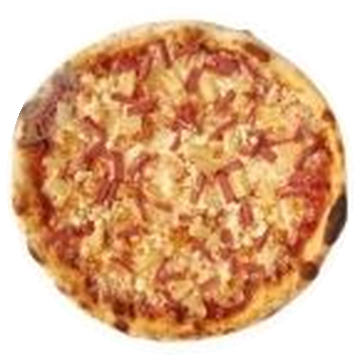
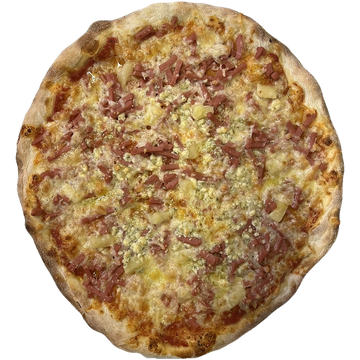
Uusi Americanon kuva (torstain päivän pizza), tausta poistettu
Claude-Session: https://claude.ai/code/session_019QJ8uAZrjsHY5GBSvSU4sp

diff --git a/index.html b/index.html
@@ -1,9 +1,9 @@
 <!DOCTYPE html>
-<html lang="fi"><head><meta charset="utf-8"><meta name="build" content="1793803376"><meta name="viewport" content="width=device-width, initial-scale=1, viewport-fit=cover">
+<html lang="fi"><head><meta charset="utf-8"><meta name="build" content="1793864624"><meta name="viewport" content="width=device-width, initial-scale=1, viewport-fit=cover">
 <title>Malakai Ravintola Lempäälä | Pizzabuffet, kebab, burgerit ja siivet</title><meta name="description" content="Malakai Ravintola, Tampereentie 414 Lempäälä. Pizzabuffet 13,70 € / 14,90 €, päivän pizza 9,90 €, kebabit, burgerit, Sticky Fingers ja Hot Wings. Varaa pöytä: 045 353 7000.">
 <meta property="og:title" content="Malakai Ravintola Lempäälä | Pizzabuffet, kebab, burgerit ja siivet"><meta property="og:description" content="Malakai Ravintola, Tampereentie 414 Lempäälä. Pizzabuffet 13,70 € / 14,90 €, päivän pizza 9,90 €, kebabit, burgerit, Sticky Fingers ja Hot Wings. Varaa pöytä: 045 353 7000."><meta property="og:image" content="media/kuvat/hero-levea.jpg?hq=1"><meta property="og:locale" content="fi_FI">
 <link href="https://fonts.googleapis.com/css2?family=Anton&family=Inter:wght@400;500;700&family=Playfair+Display:wght@500;600&display=swap" rel="stylesheet">
-<link rel="stylesheet" href="styles.css?v=1793803376"><link rel="stylesheet" href="home.css?v=1793803376">
+<link rel="stylesheet" href="styles.css?v=1793864624"><link rel="stylesheet" href="home.css?v=1793864624">
 <script type="application/ld+json">{"@context":"https://schema.org","@type":"Restaurant","name":"Malakai Ravintola","address":{"@type":"PostalAddress","streetAddress":"Tampereentie 414","postalCode":"33880","addressLocality":"Lempäälä","addressCountry":"FI"},"telephone":"+358453537000","email":"malakairavintola@gmail.com","url":"https://malakairavintola.fi","servesCuisine":["Pizza","Kebab","Burgerit"],"openingHours":["Mo-Th 10:30-20:00","Fr 10:30-21:00","Sa 11:00-21:00","Su 12:00-20:00"]}</script>
 </head>
 <body class="home">
@@ -219,5 +219,5 @@
 <div class="fcopy">© 2025 Malakai Ravintola · <a href="https://www.oivahymy.fi/api/raportti/227129" target="_blank" rel="noopener">Oiva-raportti (Oivallinen)</a> · <a href="tietosuoja.html">Tietosuojaseloste</a> · <a href="kayttoehdot.html">Käyttö- ja varausehdot</a></div>
 </div></footer>
 <div class="bar"><a class="btn" href="tel:+358453537000">Soita</a><a class="btn r" href="https://order.site/malakai-ravintola" target="_blank" rel="noopener">Tilaa</a><a class="btn y" href="#varaa">Varaa pöytä</a></div>
-<script src="data.js?v=1793803376"></script><script src="config.js?v=1793803376"></script><script src="site.js?v=1793803376"></script>
+<script src="data.js?v=1793864624"></script><script src="config.js?v=1793864624"></script><script src="site.js?v=1793864624"></script>
 </body></html>

diff --git a/lounas.html b/lounas.html
@@ -1,9 +1,9 @@
 <!DOCTYPE html>
-<html lang="fi"><head><meta charset="utf-8"><meta name="build" content="1793803376"><meta name="viewport" content="width=device-width, initial-scale=1, viewport-fit=cover">
+<html lang="fi"><head><meta charset="utf-8"><meta name="build" content="1793864624"><meta name="viewport" content="width=device-width, initial-scale=1, viewport-fit=cover">
 <title>Lounas Sääksjärvi | Malakai Ravintola Lempäälä</title><meta name="description" content="Pizzabuffet Lempäälässä: arkisin klo 10.30–15 13,70 €, viikonloppuisin klo 13–18 14,90 €. Salaattibuffet 9,90 € / 10,90 €. Lapsille omat hinnat.">
 <meta property="og:title" content="Pizzabuffet Lempäälä | Malakai Ravintola"><meta property="og:description" content="Pizzabuffet Lempäälässä: arkisin klo 10.30–15 13,70 €, viikonloppuisin klo 13–18 14,90 €. Salaattibuffet 9,90 € / 10,90 €. Lapsille omat hinnat."><meta property="og:image" content="media/hero.jpg"><meta property="og:locale" content="fi_FI">
 <link href="https://fonts.googleapis.com/css2?family=Anton&family=Inter:wght@400;500;700&family=Playfair+Display:wght@500;600&display=swap" rel="stylesheet">
-<link rel="stylesheet" href="styles.css?v=1793803376"><link rel="stylesheet" href="home.css?v=1793803376">
+<link rel="stylesheet" href="styles.css?v=1793864624"><link rel="stylesheet" href="home.css?v=1793864624">
 <script type="application/ld+json">{"@context":"https://schema.org","@type":"Restaurant","name":"Malakai Ravintola","address":{"@type":"PostalAddress","streetAddress":"Tampereentie 414","postalCode":"33880","addressLocality":"Lempäälä","addressCountry":"FI"},"telephone":"+358453537000","email":"malakairavintola@gmail.com","url":"https://malakairavintola.fi","servesCuisine":["Pizza","Kebab","Burgerit"],"openingHours":["Mo-Th 10:30-20:00","Fr 10:30-21:00","Sa 11:00-21:00","Su 12:00-20:00"]}</script>
 </head><body class="home">
 <header class="top" id="topbar">
@@ -73,5 +73,5 @@
 <div class="fcopy">© 2025 Malakai Ravintola · <a href="https://www.oivahymy.fi/api/raportti/227129" target="_blank" rel="noopener">Oiva-raportti (Oivallinen)</a> · <a href="tietosuoja.html">Tietosuojaseloste</a> · <a href="kayttoehdot.html">Käyttö- ja varausehdot</a></div>
 </div></footer>
 <div class="bar"><a class="btn" href="tel:+358453537000">Soita</a><a class="btn r" href="https://order.site/malakai-ravintola" target="_blank" rel="noopener">Tilaa</a><a class="btn y" href="index.html#varaa">Varaa pöytä</a></div>
-<script src="data.js?v=1793803376"></script><script src="config.js?v=1793803376"></script><script src="site.js?v=1793803376"></script>
+<script src="data.js?v=1793864624"></script><script src="config.js?v=1793864624"></script><script src="site.js?v=1793864624"></script>
 </body></html>

diff --git a/pikkujoulut.html b/pikkujoulut.html
@@ -1,9 +1,9 @@
 <!DOCTYPE html>
-<html lang="fi"><head><meta charset="utf-8"><meta name="build" content="1793803376"><meta name="viewport" content="width=device-width, initial-scale=1, viewport-fit=cover">
+<html lang="fi"><head><meta charset="utf-8"><meta name="build" content="1793864624"><meta name="viewport" content="width=device-width, initial-scale=1, viewport-fit=cover">
 <title>Pikkujoulut 2026 Lempäälä | Malakai Ravintola</title><meta name="description" content="Pikkujoulut 2026 Malakai Ravintolassa Sääksjärvellä: runsas buffet työporukalle, kavereille ja suvulle. Pyydä tarjous: 045 353 7000.">
 <meta property="og:title" content="Pikkujoulut 2026 | Malakai Ravintola"><meta property="og:description" content="Pikkujoulut 2026 Malakai Ravintolassa Sääksjärvellä: runsas buffet työporukalle, kavereille ja suvulle. Pyydä tarjous: 045 353 7000."><meta property="og:image" content="media/kuvat/buffet-lautanen.jpg?hq=1"><meta property="og:locale" content="fi_FI">
 <link href="https://fonts.googleapis.com/css2?family=Anton&family=Inter:wght@400;500;700&family=Playfair+Display:wght@500;600&display=swap" rel="stylesheet">
-<link rel="stylesheet" href="styles.css?v=1793803376"><link rel="stylesheet" href="home.css?v=1793803376">
+<link rel="stylesheet" href="styles.css?v=1793864624"><link rel="stylesheet" href="home.css?v=1793864624">
 <script type="application/ld+json">{"@context":"https://schema.org","@type":"Restaurant","name":"Malakai Ravintola","address":{"@type":"PostalAddress","streetAddress":"Tampereentie 414","postalCode":"33880","addressLocality":"Lempäälä","addressCountry":"FI"},"telephone":"+358453537000","email":"malakairavintola@gmail.com","url":"https://malakairavintola.fi","servesCuisine":["Pizza","Kebab","Burgerit"],"openingHours":["Mo-Th 10:30-20:00","Fr 10:30-21:00","Sa 11:00-21:00","Su 12:00-20:00"]}</script>
 </head><body class="home">
 <header class="top" id="topbar">
@@ -66,5 +66,5 @@
 <div class="fcopy">© 2025 Malakai Ravintola · <a href="https://www.oivahymy.fi/api/raportti/227129" target="_blank" rel="noopener">Oiva-raportti (Oivallinen)</a> · <a href="tietosuoja.html">Tietosuojaseloste</a> · <a href="kayttoehdot.html">Käyttö- ja varausehdot</a></div>
 </div></footer>
 <div class="bar"><a class="btn" href="tel:+358453537000">Soita</a><a class="btn r" href="https://order.site/malakai-ravintola" target="_blank" rel="noopener">Tilaa</a><a class="btn y" href="index.html#varaa">Varaa pöytä</a></div>
-<script src="data.js?v=1793803376"></script><script src="config.js?v=1793803376"></script><script src="site.js?v=1793803376"></script>
+<script src="data.js?v=1793864624"></script><script src="config.js?v=1793864624"></script><script src="site.js?v=1793864624"></script>
 </body></html>

diff --git a/ruokalista.html b/ruokalista.html
@@ -1,9 +1,9 @@
 <!DOCTYPE html>
-<html lang="fi"><head><meta charset="utf-8"><meta name="build" content="1793803376"><meta name="viewport" content="width=device-width, initial-scale=1, viewport-fit=cover">
+<html lang="fi"><head><meta charset="utf-8"><meta name="build" content="1793864624"><meta name="viewport" content="width=device-width, initial-scale=1, viewport-fit=cover">
 <title>Ruokalista | Malakai Ravintola Lempäälä</title><meta name="description" content="Malakai Ravintolan ruokalista: pizzat, kebabit, kana, Sticky Fingers, Hot Wings, burgerit, lisukkeet, dipit ja juomat hintoineen.">
 <meta property="og:title" content="Ruokalista | Malakai Ravintola Lempäälä"><meta property="og:description" content="Malakai Ravintolan ruokalista: pizzat, kebabit, kana, Sticky Fingers, Hot Wings, burgerit, lisukkeet, dipit ja juomat hintoineen."><meta property="og:image" content="media/hero.jpg"><meta property="og:locale" content="fi_FI">
 <link href="https://fonts.googleapis.com/css2?family=Anton&family=Inter:wght@400;500;700&family=Playfair+Display:wght@500;600&display=swap" rel="stylesheet">
-<link rel="stylesheet" href="styles.css?v=1793803376"><link rel="stylesheet" href="home.css?v=1793803376">
+<link rel="stylesheet" href="styles.css?v=1793864624"><link rel="stylesheet" href="home.css?v=1793864624">
 <script type="application/ld+json">{"@context":"https://schema.org","@type":"Restaurant","name":"Malakai Ravintola","address":{"@type":"PostalAddress","streetAddress":"Tampereentie 414","postalCode":"33880","addressLocality":"Lempäälä","addressCountry":"FI"},"telephone":"+358453537000","email":"malakairavintola@gmail.com","url":"https://malakairavintola.fi","servesCuisine":["Pizza","Kebab","Burgerit"],"openingHours":["Mo-Th 10:30-20:00","Fr 10:30-21:00","Sa 11:00-21:00","Su 12:00-20:00"]}</script>
 </head><body class="home menu-page">
 <header class="top" id="topbar">
@@ -23,5 +23,5 @@
 <div class="fcopy">© 2025 Malakai Ravintola · <a href="https://www.oivahymy.fi/api/raportti/227129" target="_blank" rel="noopener">Oiva-raportti (Oivallinen)</a> · <a href="tietosuoja.html">Tietosuojaseloste</a> · <a href="kayttoehdot.html">Käyttö- ja varausehdot</a></div>
 </div></footer>
 <div class="bar"><a class="btn" href="tel:+358453537000">Soita</a><a class="btn r" href="https://order.site/malakai-ravintola" target="_blank" rel="noopener">Tilaa</a><a class="btn y" href="index.html#varaa">Varaa pöytä</a></div>
-<script src="data.js?v=1793803376"></script><script src="config.js?v=1793803376"></script><script src="site.js?v=1793803376"></script>
+<script src="data.js?v=1793864624"></script><script src="config.js?v=1793864624"></script><script src="site.js?v=1793864624"></script>
 </body></html>

diff --git a/pizza-lempaala.html b/pizza-lempaala.html
@@ -1,9 +1,9 @@
 <!DOCTYPE html>
-<html lang="fi"><head><meta charset="utf-8"><meta name="build" content="1793803376"><meta name="viewport" content="width=device-width, initial-scale=1, viewport-fit=cover">
+<html lang="fi"><head><meta charset="utf-8"><meta name="build" content="1793864624"><meta name="viewport" content="width=device-width, initial-scale=1, viewport-fit=cover">
 <title>Pizza Lempäälä | Malakai Ravintola</title><meta name="description" content="Pizza Lempäälässä: Malakai Ravintolan 22 pizzaa, oma valinta ja päivän pizza 9,90 €. Pizzabuffet joka päivä.">
 <meta property="og:title" content="Pizza Lempäälä | Malakai Ravintola"><meta property="og:description" content="Pizza Lempäälässä: Malakai Ravintolan 22 pizzaa, oma valinta ja päivän pizza 9,90 €. Pizzabuffet joka päivä."><meta property="og:image" content="media/hero.jpg"><meta property="og:locale" content="fi_FI">
 <link href="https://fonts.googleapis.com/css2?family=Anton&family=Inter:wght@400;500;700&family=Playfair+Display:wght@500;600&display=swap" rel="stylesheet">
-<link rel="stylesheet" href="styles.css?v=1793803376"><link rel="stylesheet" href="home.css?v=1793803376">
+<link rel="stylesheet" href="styles.css?v=1793864624"><link rel="stylesheet" href="home.css?v=1793864624">
 <script type="application/ld+json">{"@context":"https://schema.org","@type":"Restaurant","name":"Malakai Ravintola","address":{"@type":"PostalAddress","streetAddress":"Tampereentie 414","postalCode":"33880","addressLocality":"Lempäälä","addressCountry":"FI"},"telephone":"+358453537000","email":"malakairavintola@gmail.com","url":"https://malakairavintola.fi","servesCuisine":["Pizza","Kebab","Burgerit"],"openingHours":["Mo-Th 10:30-20:00","Fr 10:30-21:00","Sa 11:00-21:00","Su 12:00-20:00"]}</script>
 </head><body class="home menu-page">
 <header class="top" id="topbar">
@@ -23,5 +23,5 @@
 <div class="fcopy">© 2025 Malakai Ravintola · <a href="https://www.oivahymy.fi/api/raportti/227129" target="_blank" rel="noopener">Oiva-raportti (Oivallinen)</a> · <a href="tietosuoja.html">Tietosuojaseloste</a> · <a href="kayttoehdot.html">Käyttö- ja varausehdot</a></div>
 </div></footer>
 <div class="bar"><a class="btn" href="tel:+358453537000">Soita</a><a class="btn r" href="https://order.site/malakai-ravintola" target="_blank" rel="noopener">Tilaa</a><a class="btn y" href="index.html#varaa">Varaa pöytä</a></div>
-<script src="data.js?v=1793803376"></script><script src="config.js?v=1793803376"></script><script src="site.js?v=1793803376"></script>
+<script src="data.js?v=1793864624"></script><script src="config.js?v=1793864624"></script><script src="site.js?v=1793864624"></script>
 </body></html>

diff --git a/kebab-lempaala.html b/kebab-lempaala.html
@@ -1,9 +1,9 @@
 <!DOCTYPE html>
-<html lang="fi"><head><meta charset="utf-8"><meta name="build" content="1793803376"><meta name="viewport" content="width=device-width, initial-scale=1, viewport-fit=cover">
+<html lang="fi"><head><meta charset="utf-8"><meta name="build" content="1793864624"><meta name="viewport" content="width=device-width, initial-scale=1, viewport-fit=cover">
 <title>Kebab Lempäälä | Malakai Ravintola</title><meta name="description" content="Kebab Lempäälässä: Malakai Ravintolan kebab- ja kanaannokset ranskalaisilla, riisillä, rullana ja pitassa.">
 <meta property="og:title" content="Kebab Lempäälä | Malakai Ravintola"><meta property="og:description" content="Kebab Lempäälässä: Malakai Ravintolan kebab- ja kanaannokset ranskalaisilla, riisillä, rullana ja pitassa."><meta property="og:image" content="media/hero.jpg"><meta property="og:locale" content="fi_FI">
 <link href="https://fonts.googleapis.com/css2?family=Anton&family=Inter:wght@400;500;700&family=Playfair+Display:wght@500;600&display=swap" rel="stylesheet">
-<link rel="stylesheet" href="styles.css?v=1793803376"><link rel="stylesheet" href="home.css?v=1793803376">
+<link rel="stylesheet" href="styles.css?v=1793864624"><link rel="stylesheet" href="home.css?v=1793864624">
 <script type="application/ld+json">{"@context":"https://schema.org","@type":"Restaurant","name":"Malakai Ravintola","address":{"@type":"PostalAddress","streetAddress":"Tampereentie 414","postalCode":"33880","addressLocality":"Lempäälä","addressCountry":"FI"},"telephone":"+358453537000","email":"malakairavintola@gmail.com","url":"https://malakairavintola.fi","servesCuisine":["Pizza","Kebab","Burgerit"],"openingHours":["Mo-Th 10:30-20:00","Fr 10:30-21:00","Sa 11:00-21:00","Su 12:00-20:00"]}</script>
 </head><body class="home menu-page">
 <header class="top" id="topbar">
@@ -23,5 +23,5 @@
 <div class="fcopy">© 2025 Malakai Ravintola · <a href="https://www.oivahymy.fi/api/raportti/227129" target="_blank" rel="noopener">Oiva-raportti (Oivallinen)</a> · <a href="tietosuoja.html">Tietosuojaseloste</a> · <a href="kayttoehdot.html">Käyttö- ja varausehdot</a></div>
 </div></footer>
 <div class="bar"><a class="btn" href="tel:+358453537000">Soita</a><a class="btn r" href="https://order.site/malakai-ravintola" target="_blank" rel="noopener">Tilaa</a><a class="btn y" href="index.html#varaa">Varaa pöytä</a></div>
-<script src="data.js?v=1793803376"></script><script src="config.js?v=1793803376"></script><script src="site.js?v=1793803376"></script>
+<script src="data.js?v=1793864624"></script><script src="config.js?v=1793864624"></script><script src="site.js?v=1793864624"></script>
 </body></html>

diff --git a/kayttoehdot.html b/kayttoehdot.html
@@ -1,9 +1,9 @@
 <!DOCTYPE html>
-<html lang="fi"><head><meta charset="utf-8"><meta name="build" content="1793803376"><meta name="viewport" content="width=device-width, initial-scale=1, viewport-fit=cover">
+<html lang="fi"><head><meta charset="utf-8"><meta name="build" content="1793864624"><meta name="viewport" content="width=device-width, initial-scale=1, viewport-fit=cover">
 <title>Käyttö- ja varausehdot | Malakai Ravintola</title><meta name="description" content="Malakai Ravintolan käyttö- ja varausehdot: pöytävaraukset, lahjakortit ja sivuston käyttö."><meta name="robots" content="noindex">
 <meta property="og:title" content="Käyttö- ja varausehdot | Malakai Ravintola"><meta property="og:description" content="Pöytävaraukset ja lahjakortit: Malakai Ravintolan ehdot."><meta property="og:image" content="media/kuvat/buffet-lautanen.jpg?hq=1"><meta property="og:locale" content="fi_FI">
 <link href="https://fonts.googleapis.com/css2?family=Anton&family=Inter:wght@400;500;700&family=Playfair+Display:wght@500;600&display=swap" rel="stylesheet">
-<link rel="stylesheet" href="styles.css?v=1793803376"><link rel="stylesheet" href="home.css?v=1793803376">
+<link rel="stylesheet" href="styles.css?v=1793864624"><link rel="stylesheet" href="home.css?v=1793864624">
 <script type="application/ld+json">{"@context":"https://schema.org","@type":"Restaurant","name":"Malakai Ravintola","address":{"@type":"PostalAddress","streetAddress":"Tampereentie 414","postalCode":"33880","addressLocality":"Lempäälä","addressCountry":"FI"},"telephone":"+358453537000","email":"malakairavintola@gmail.com","url":"https://malakairavintola.fi","servesCuisine":["Pizza","Kebab","Burgerit"],"openingHours":["Mo-Th 10:30-20:00","Fr 10:30-21:00","Sa 11:00-21:00","Su 12:00-20:00"]}</script>
 </head><body class="home">
 <header class="top" id="topbar">
@@ -69,5 +69,5 @@
 <div class="fcopy">© 2025 Malakai Ravintola · <a href="https://www.oivahymy.fi/api/raportti/227129" target="_blank" rel="noopener">Oiva-raportti (Oivallinen)</a> · <a href="tietosuoja.html">Tietosuojaseloste</a> · <a href="kayttoehdot.html">Käyttö- ja varausehdot</a></div>
 </div></footer>
 <div class="bar"><a class="btn" href="tel:+358453537000">Soita</a><a class="btn r" href="https://order.site/malakai-ravintola" target="_blank" rel="noopener">Tilaa</a><a class="btn y" href="index.html#varaa">Varaa pöytä</a></div>
-<script src="data.js?v=1793803376"></script><script src="config.js?v=1793803376"></script><script src="site.js?v=1793803376"></script>
+<script src="data.js?v=1793864624"></script><script src="config.js?v=1793864624"></script><script src="site.js?v=1793864624"></script>
 </body></html>

diff --git a/tietosuoja.html b/tietosuoja.html
@@ -1,9 +1,9 @@
 <!DOCTYPE html>
-<html lang="fi"><head><meta charset="utf-8"><meta name="build" content="1793803376"><meta name="viewport" content="width=device-width, initial-scale=1, viewport-fit=cover">
+<html lang="fi"><head><meta charset="utf-8"><meta name="build" content="1793864624"><meta name="viewport" content="width=device-width, initial-scale=1, viewport-fit=cover">
 <title>Tietosuojaseloste | Malakai Ravintola</title><meta name="description" content="Malakai Ravintolan tietosuojaseloste: pöytävarausten ja uutiskirjeen henkilötietojen käsittely."><meta name="robots" content="noindex">
 <meta property="og:title" content="Tietosuojaseloste | Malakai Ravintola"><meta property="og:image" content="media/kuvat/buffet-lautanen.jpg?hq=1"><meta property="og:locale" content="fi_FI">
 <link href="https://fonts.googleapis.com/css2?family=Anton&family=Inter:wght@400;500;700&family=Playfair+Display:wght@500;600&display=swap" rel="stylesheet">
-<link rel="stylesheet" href="styles.css?v=1793803376"><link rel="stylesheet" href="home.css?v=1793803376">
+<link rel="stylesheet" href="styles.css?v=1793864624"><link rel="stylesheet" href="home.css?v=1793864624">
 <script type="application/ld+json">{"@context":"https://schema.org","@type":"Restaurant","name":"Malakai Ravintola","address":{"@type":"PostalAddress","streetAddress":"Tampereentie 414","postalCode":"33880","addressLocality":"Lempäälä","addressCountry":"FI"},"telephone":"+358453537000","email":"malakairavintola@gmail.com","url":"https://malakairavintola.fi","servesCuisine":["Pizza","Kebab","Burgerit"],"openingHours":["Mo-Th 10:30-20:00","Fr 10:30-21:00","Sa 11:00-21:00","Su 12:00-20:00"]}</script>
 </head><body class="home">
 <header class="top" id="topbar">
@@ -47,5 +47,5 @@
 <div class="fcopy">© 2025 Malakai Ravintola · <a href="https://www.oivahymy.fi/api/raportti/227129" target="_blank" rel="noopener">Oiva-raportti (Oivallinen)</a> · <a href="tietosuoja.html">Tietosuojaseloste</a> · <a href="kayttoehdot.html">Käyttö- ja varausehdot</a></div>
 </div></footer>
 <div class="bar"><a class="btn" href="tel:+358453537000">Soita</a><a class="btn r" href="https://order.site/malakai-ravintola" target="_blank" rel="noopener">Tilaa</a><a class="btn y" href="index.html#varaa">Varaa pöytä</a></div>
-<script src="data.js?v=1793803376"></script><script src="config.js?v=1793803376"></script><script src="site.js?v=1793803376"></script>
+<script src="data.js?v=1793864624"></script><script src="config.js?v=1793864624"></script><script src="site.js?v=1793864624"></script>
 </body></html>

diff --git a/lahjakortit.html b/lahjakortit.html
@@ -1,9 +1,9 @@
 <!DOCTYPE html>
-<html lang="fi"><head><meta charset="utf-8"><meta name="build" content="1793803376"><meta name="viewport" content="width=device-width, initial-scale=1, viewport-fit=cover">
+<html lang="fi"><head><meta charset="utf-8"><meta name="build" content="1793864624"><meta name="viewport" content="width=device-width, initial-scale=1, viewport-fit=cover">
 <title>Lahjakortit | Malakai Ravintola</title><meta name="description" content="Malakai Ravintolan lahjakortti: valitse summa itse (alk. 20 €), voimassa 6 kk. Osta ravintolan kassalta, Tampereentie 414, Lempäälä.">
 <meta property="og:title" content="Lahjakortit | Malakai Ravintola"><meta property="og:image" content="media/kuvat/buffet-lautanen.jpg?hq=1"><meta property="og:locale" content="fi_FI">
 <link href="https://fonts.googleapis.com/css2?family=Anton&family=Inter:wght@400;500;700&family=Playfair+Display:wght@500;600&display=swap" rel="stylesheet">
-<link rel="stylesheet" href="styles.css?v=1793803376"><link rel="stylesheet" href="home.css?v=1793803376">
+<link rel="stylesheet" href="styles.css?v=1793864624"><link rel="stylesheet" href="home.css?v=1793864624">
 <script type="application/ld+json">{"@context":"https://schema.org","@type":"Restaurant","name":"Malakai Ravintola","address":{"@type":"PostalAddress","streetAddress":"Tampereentie 414","postalCode":"33880","addressLocality":"Lempäälä","addressCountry":"FI"},"telephone":"+358453537000","email":"malakairavintola@gmail.com","url":"https://malakairavintola.fi","servesCuisine":["Pizza","Kebab","Burgerit"],"openingHours":["Mo-Th 10:30-20:00","Fr 10:30-21:00","Sa 11:00-21:00","Su 12:00-20:00"]}</script>
 </head><body class="home">
 <header class="top" id="topbar">
@@ -44,5 +44,5 @@
 <div class="fcopy">© 2025 Malakai Ravintola · <a href="https://www.oivahymy.fi/api/raportti/227129" target="_blank" rel="noopener">Oiva-raportti (Oivallinen)</a> · <a href="tietosuoja.html">Tietosuojaseloste</a> · <a href="kayttoehdot.html">Käyttö- ja varausehdot</a></div>
 </div></footer>
 <div class="bar"><a class="btn" href="tel:+358453537000">Soita</a><a class="btn r" href="https://order.site/malakai-ravintola" target="_blank" rel="noopener">Tilaa</a><a class="btn y" href="index.html#varaa">Varaa pöytä</a></div>
-<script src="data.js?v=1793803376"></script><script src="config.js?v=1793803376"></script><script src="site.js?v=1793803376"></script>
+<script src="data.js?v=1793864624"></script><script src="config.js?v=1793864624"></script><script src="site.js?v=1793864624"></script>
 </body></html>

diff --git a/admin.html b/admin.html
@@ -102,8 +102,8 @@ a{color:var(--y)}
 <main class="w" id="main"></main>
 <div class="save" id="saveBar"><div class="w"><span id="saveTxt">Ei tallentamattomia muutoksia</span><button class="o" id="undo" disabled>Peru muutokset</button><button id="saveBtn" disabled>Tallenna ja julkaise</button></div></div>
 <div id="toast" hidden></div>
-<script src="data.js?v=1793803376"></script>
-<script src="config.js?v=1793803376"></script>
+<script src="data.js?v=1793864624"></script>
+<script src="config.js?v=1793864624"></script>
 <script>
 (function(){
 const REPO="malakai-ravintola/malakai-ravintola.github.io",BR="main",FILE="data.js";

diff --git a/data.js b/data.js
@@ -16,7 +16,7 @@ window.SITE=/*BEGIN*/{
   },
   "to": {
    "name": "Americano",
-   "img": "media/pizza-to.png"
+   "img": "media/pizza-to.webp?v=1"
   },
   "pe": {
    "name": "Mamma Mia",
